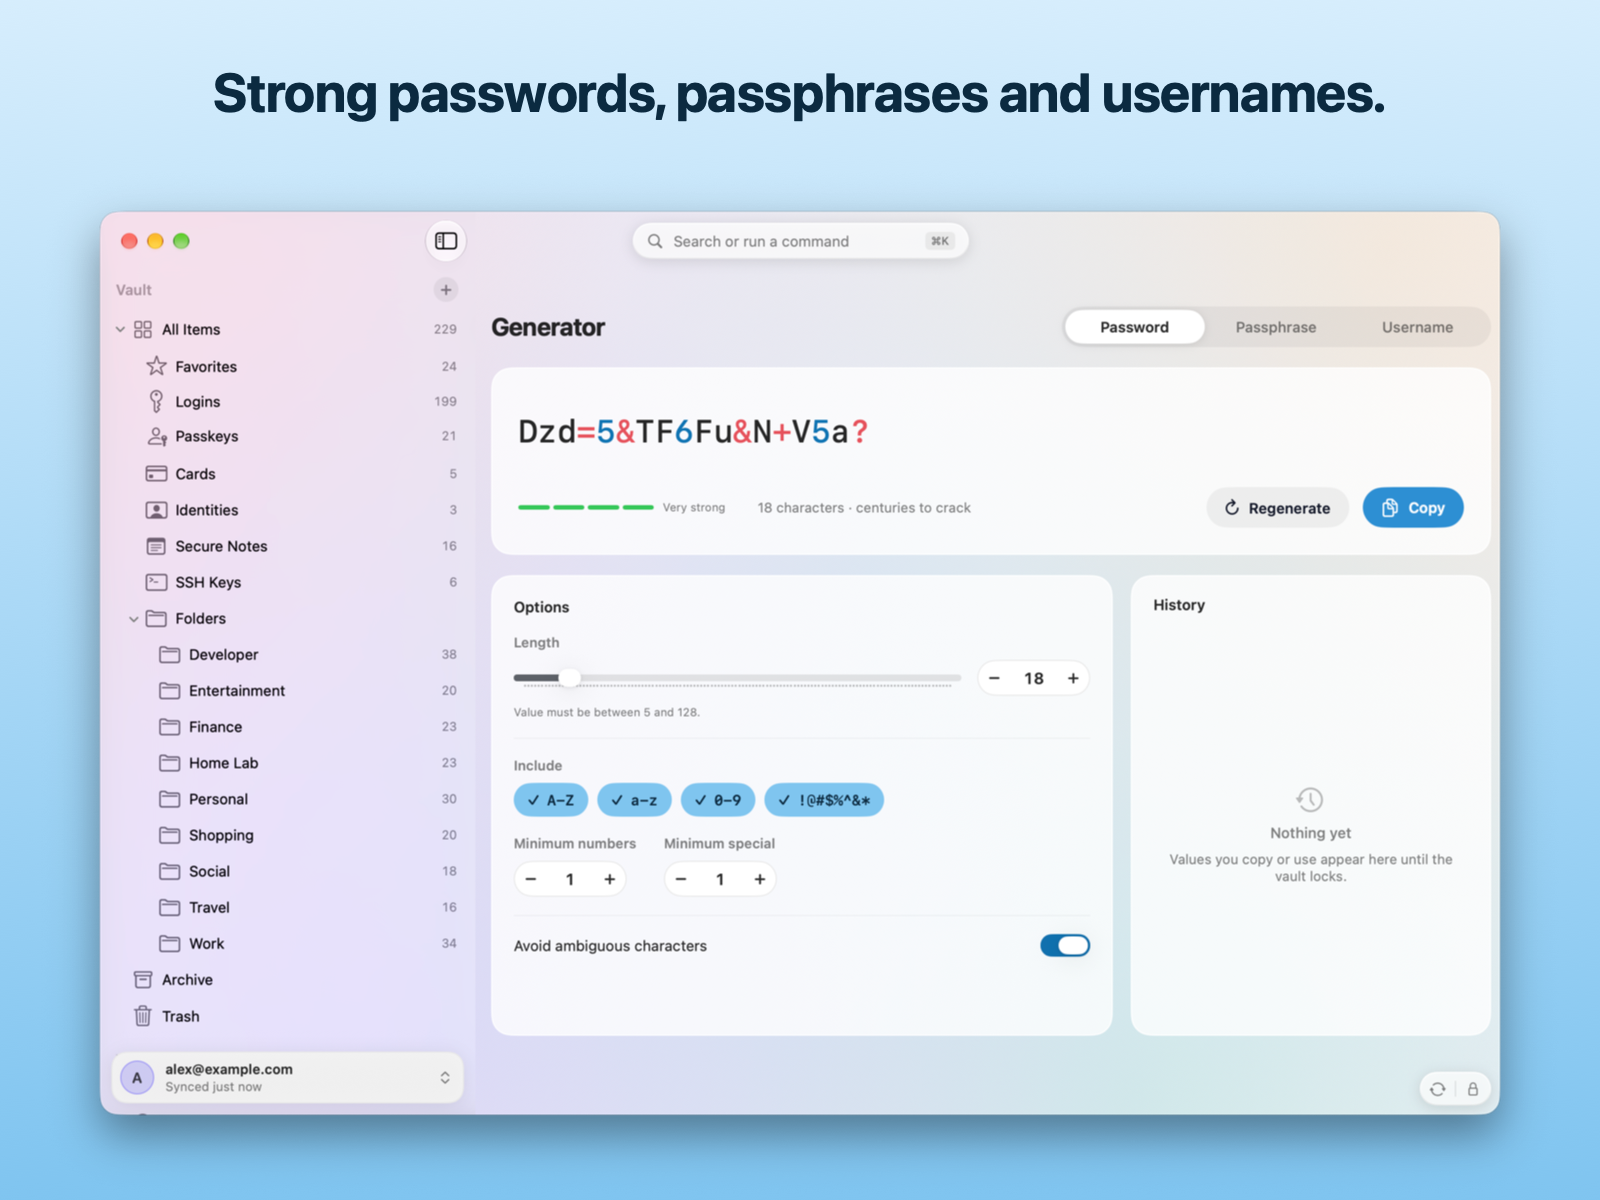
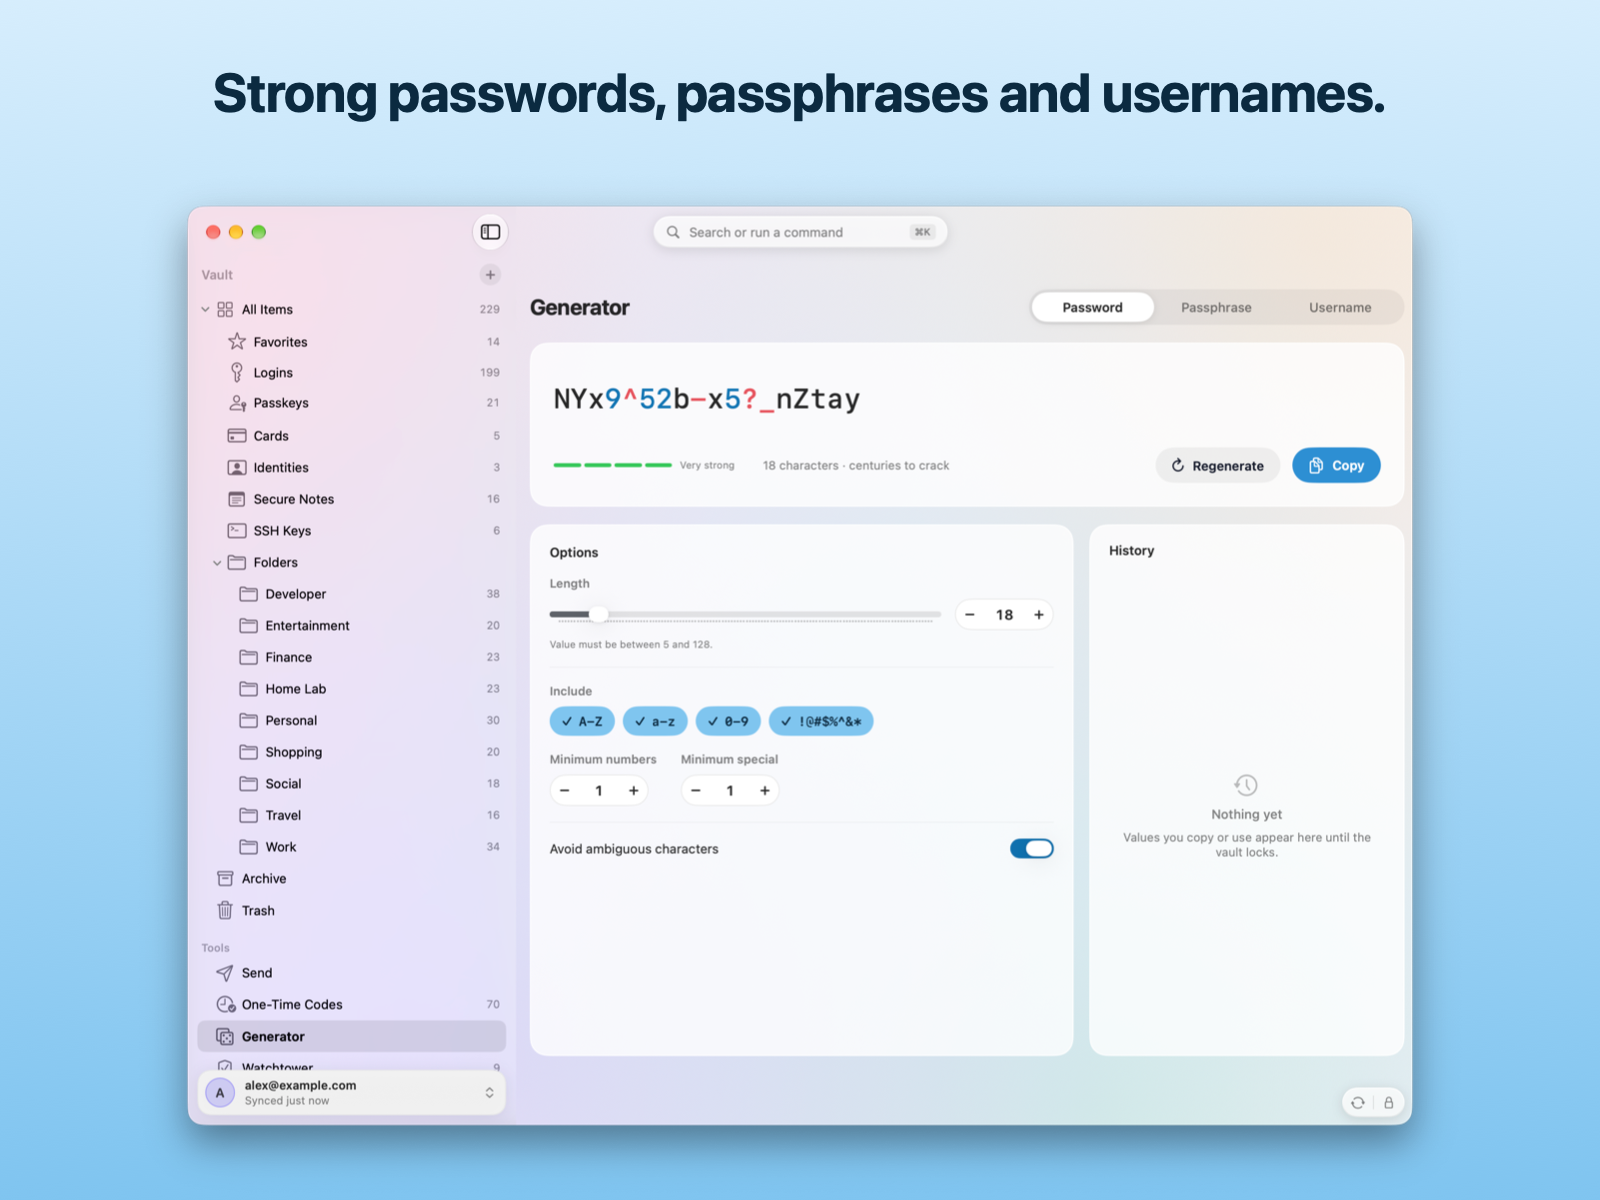
feat: store shots of sign-in, one-time codes, Watchtower and the menu bar
`--shoot` now also captures the sign-in screen, the codes page (just after
the codes change), Watchtower (the demo vault carries a few weak, reused,
breached and stale passwords) and the menu bar panel, hosted in its own
panel because SwiftUI's opens only on a real click. Every capture waits for
the app to be active, and the window is tall enough that the sidebar never
scrolls. Store images regenerated: 8 screens, light and dark.

Changed region(s): [[0.0312, 0.1542, 0.9688, 0.9558], [0.2812, 0.2467, 0.4062, 0.2775], [0.2812, 0.3083, 0.3125, 0.3392]]

diff --git a/App/Sources/DemoVault.swift b/App/Sources/DemoVault.swift
@@ -149,6 +149,15 @@ enum DemoVault {
         ("Locker combo", "f-personal", "24 · 08 · 16"),
     ]
 
+    /// A few of the usual sins, so Watchtower has something to show.
+    private static let weakPasswords: [String: String] = [
+        "Router": "admin123", "Pi-hole": "admin123", "Wi-Fi Printer": "password1",
+        "Meetup": "Summer2019!", "Goodreads": "Summer2019!", "Pinterest": "Summer2019!", "Hertz": "qwerty12",
+    ]
+    private static let stale: Set<String> = ["Comcast Xfinity", "PG&E", "Experian", "Lyft", "Evernote", "Kindle"]
+    /// Seen in breaches (for the demo's Watchtower).
+    static let breached: [String: Int] = ["Pinterest": 3_412, "Evernote": 58, "Goodreads": 211]
+
     private static var generated: [VaultItem] {
         var rng = SeededRandom(seed: 0x7472_6977)
         var items: [VaultItem] = []
@@ -159,14 +168,20 @@ enum DemoVault {
         for (index, entry) in logins.enumerated() {
             let (name, host, folder, user) = entry
             var item = VaultItem(id: "g\(index)", name: name, username: user ?? (folder == "f-work" ? work : mail), host: host,
-                                 password: rng.password(), totp: rng.next(upTo: 100) < 30 ? TOTP("JBSWY3DPEHPK3PXP") : nil,
+                                 password: rng.password(), totp: rng.next(upTo: 100) < 30 ? TOTP(rng.base32(32)) : nil,
                                  notes: nil, favorite: rng.next(upTo: 100) < 7,
                                  hasPasskey: rng.next(upTo: 100) < 12)
             item.folderId = folder
             item.folderName = folderName[folder]
             item.created = date(&rng)
             item.revised = item.created.map { max($0, date(&rng)) }
-            if rng.next(upTo: 100) < 5 { item.reuseCount = 1 + rng.next(upTo: 2) }
+            if let weak = weakPasswords[name] {
+                item = VaultItem(id: item.id, name: name, username: item.username, host: host, password: weak, totp: item.totp,
+                                 notes: nil, favorite: false, folderId: folder, folderName: folderName[folder],
+                                 created: item.created)
+                item.reuseCount = weakPasswords.values.filter { $0 == weak }.count - 1
+            }
+            if stale.contains(name) { item.passwordRevised = Date(timeIntervalSince1970: 1_561_000_000) }
             items.append(item)
         }
         for (index, entry) in notes.enumerated() {
@@ -238,6 +253,11 @@ private struct SeededRandom {
         return String((0..<length).map { _ in chars[next(upTo: chars.count)] })
     }
 
+    mutating func base32(_ length: Int) -> String {
+        let chars = Array("ABCDEFGHIJKLMNOPQRSTUVWXYZ234567")
+        return String((0..<length).map { _ in chars[next(upTo: chars.count)] })
+    }
+
     mutating func password() -> String {
         let chars = Array("ABCDEFGHJKLMNPQRSTUVWXYZabcdefghijkmnopqrstuvwxyz23456789!#$%&*@^")
         return String((0..<(14 + next(upTo: 8))).map { _ in chars[next(upTo: chars.count)] })
@@ -247,6 +267,7 @@ private struct SeededRandom {
 
 #if DEBUG
 import AppKit
+import SwiftUI
 
 /// Debug-only: `Triwarden --demo-full --shoot [-appearance dark]` steps through the screens worth showing, captures
 /// its own windows (shadow included, as the window server draws them) into the app's temporary folder (it's
@@ -262,7 +283,8 @@ enum DemoShots {
         Task { @MainActor in
             try? await Task.sleep(for: .seconds(3))
             guard let window = NSApp.windows.first(where: { $0.isVisible && $0.canBecomeMain }) else { exit(1) }
-            window.setContentSize(NSSize(width: 1240, height: 800))
+            // Tall enough for the whole sidebar (Tools included), so it never scrolls under the traffic lights.
+            window.setContentSize(NSSize(width: 1240, height: 930))
             window.center()
             // Front and key, so the traffic lights and selection show in colour.
             NSApp.activate(ignoringOtherApps: true)
@@ -272,7 +294,58 @@ enum DemoShots {
             model.requestedSection = .section(.all)
             model.selectedID = "2"
             try? await Task.sleep(for: .seconds(2.5))
-            capture([window], dir.appending(path: "vault-\(scheme).png"))
+            await capture([window], dir.appending(path: "vault-\(scheme).png"))
+
+            // The menu bar panel: its content in a panel like the one MenuBarExtra shows (SwiftUI's own panel only
+            // opens on a real click).
+            // As if opened over github.com in Safari (not whatever app is really in front).
+            model.foreground = ForegroundContext(app: "Safari", bundleID: "com.apple.Safari", pid: 0, host: "github.com")
+            model.foregroundPinned = true
+            let appearance = NSAppearance(named: scheme == "dark" ? .darkAqua : .aqua)!
+            let host = NSHostingView(rootView: MenuBarContent().environment(model).tint(.brand))
+            host.appearance = appearance
+            host.layoutSubtreeIfNeeded()
+            host.frame.size = host.fittingSize
+            // Opaque: captured on its own, a translucent material would have nothing behind it and turn grey.
+            let glass = NSView(frame: NSRect(origin: .zero, size: host.frame.size))
+            glass.appearance = appearance
+            glass.wantsLayer = true
+            appearance.performAsCurrentDrawingAppearance { glass.layer?.backgroundColor = NSColor.windowBackgroundColor.cgColor }
+            glass.layer?.cornerRadius = 14
+            glass.layer?.masksToBounds = true
+            glass.addSubview(host)
+            let panel = NSPanel(contentRect: glass.frame, styleMask: [.borderless, .nonactivatingPanel], backing: .buffered, defer: false)
+            panel.isOpaque = false
+            panel.backgroundColor = .clear
+            panel.hasShadow = true
+            panel.level = .popUpMenu
+            panel.contentView = glass
+            panel.appearance = appearance
+            if let screen = window.screen?.visibleFrame {
+                panel.setFrameTopLeftPoint(NSPoint(x: screen.maxX - glass.frame.width - 120, y: screen.maxY - 8))
+            }
+            panel.orderFrontRegardless()
+            try? await Task.sleep(for: .seconds(3.5))
+            await capture([panel], dir.appending(path: "menubar-\(scheme).png"))
+            panel.orderOut(nil)
+            NSApp.activate(ignoringOtherApps: true)
+            window.makeKeyAndOrderFront(nil)
+
+            // One-time codes, then Watchtower with its findings.
+            model.requestedSection = .codes
+            // Just after the codes change, so their rings are full.
+            let into = Date.now.timeIntervalSince1970.truncatingRemainder(dividingBy: 30)
+            try? await Task.sleep(for: .seconds(30 - into + 1.5))
+            await capture([window], dir.appending(path: "codes-\(scheme).png"))
+            model.breachCounts = Dictionary(uniqueKeysWithValues: model.items.compactMap { item in
+                DemoVault.breached[item.name].map { (item.id, $0) }
+            })
+            model.requestedSection = .watchtower
+            try? await Task.sleep(for: .seconds(2))
+            await capture([window], dir.appending(path: "watchtower-\(scheme).png"))
+            model.requestedSection = .section(.all)
+            model.selectedID = "2"
+            try? await Task.sleep(for: .seconds(1.5))
 
             // The command palette over it, with a search typed in.
             model.openPalette()
@@ -280,14 +353,14 @@ enum DemoShots {
             if let panel = NSApp.windows.first(where: { $0 !== window && $0.isVisible && $0.level != .normal }) {
                 (panel.firstResponder as? NSTextView)?.insertText("git", replacementRange: NSRange(location: NSNotFound, length: 0))
                 try? await Task.sleep(for: .seconds(1.5))
-                capture([panel, window], dir.appending(path: "palette-\(scheme).png"))
+                await capture([panel, window], dir.appending(path: "palette-\(scheme).png"))
                 panel.orderOut(nil)
             }
 
             // The password generator.
             model.showingGenerator = true
             try? await Task.sleep(for: .seconds(1.5))
-            capture(NSApp.windows.filter { $0.isVisible && ($0 === window || $0.sheetParent === window) }.reversed(),
+            await capture(NSApp.windows.filter { $0.isVisible && ($0 === window || $0.sheetParent === window) }.reversed(),
                     dir.appending(path: "generator-\(scheme).png"))
             model.showingGenerator = false
             try? await Task.sleep(for: .seconds(1))
@@ -300,14 +373,33 @@ enum DemoShots {
             model.phase = .locked
             try? await Task.sleep(for: .seconds(3))
             guard model.accounts.map(\.id) == demoAccounts.map(\.id) else { exit(1) }
-            capture([window], dir.appending(path: "locked-\(scheme).png"))
+            await capture([window], dir.appending(path: "locked-\(scheme).png"))
+
+            // Signing in to a self-hosted server.
+            model.setPreviewAccounts([])
+            model.serverKind = .selfHosted
+            model.serverURL = "https://vault.home.arpa"
+            model.email = "alex@example.com"
+            model.serverStatus = .reachable(product: "Vaultwarden", version: "2026.6.0")
+            model.phase = .login
+            // Let the server check give up on the made-up server, then show it as checked.
+            try? await Task.sleep(for: .seconds(6))
+            model.serverStatus = .reachable(product: "Vaultwarden", version: "2026.6.0")
+            try? await Task.sleep(for: .seconds(0.4))
+            guard model.accounts.isEmpty else { exit(1) }
+            await capture([window], dir.appending(path: "signin-\(scheme).png"))
             print(dir.path)
             exit(0)
         }
     }
 
-    /// Composites the given windows (front first) as the window server shows them.
-    private static func capture(_ windows: [NSWindow], _ url: URL) {
+    /// Composites the given windows (front first) as the window server shows them, with the app active so the traffic
+    /// lights and selections show in colour.
+    private static func capture(_ windows: [NSWindow], _ url: URL) async {
+        NSApp.activate(ignoringOtherApps: true)
+        // A lone window becomes key; with several (the palette over the vault) focus stays put, or the palette closes.
+        if windows.count == 1, windows[0].canBecomeMain { windows[0].makeKeyAndOrderFront(nil) }
+        try? await Task.sleep(for: .seconds(0.6))
         typealias CreateImage = @convention(c) (CGRect, CFArray, UInt32) -> Unmanaged<CGImage>?
         // CGWindowListCreateImageFromArray is hidden from Swift since macOS 15; it still works for an app's own windows.
         guard let symbol = dlsym(dlopen(nil, RTLD_NOW), "CGWindowListCreateImageFromArray") else { return }
@@ -324,3 +416,4 @@ enum DemoShots {
     }
 }
 #endif
+
